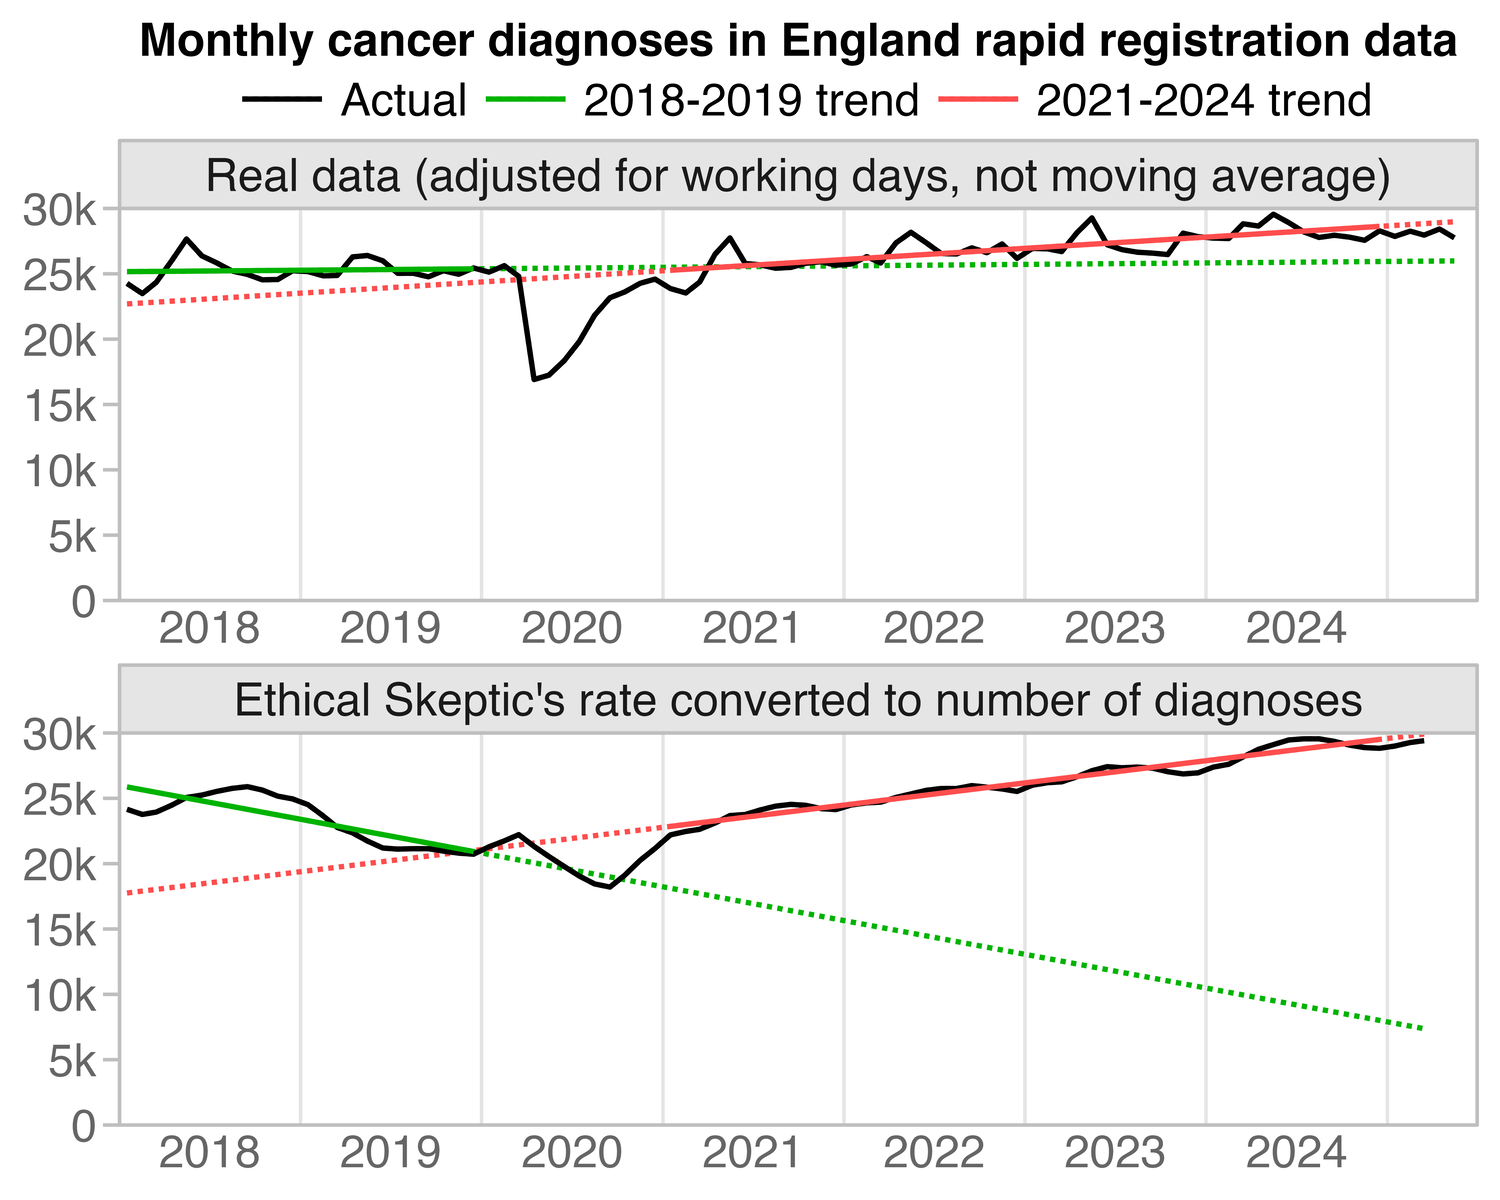
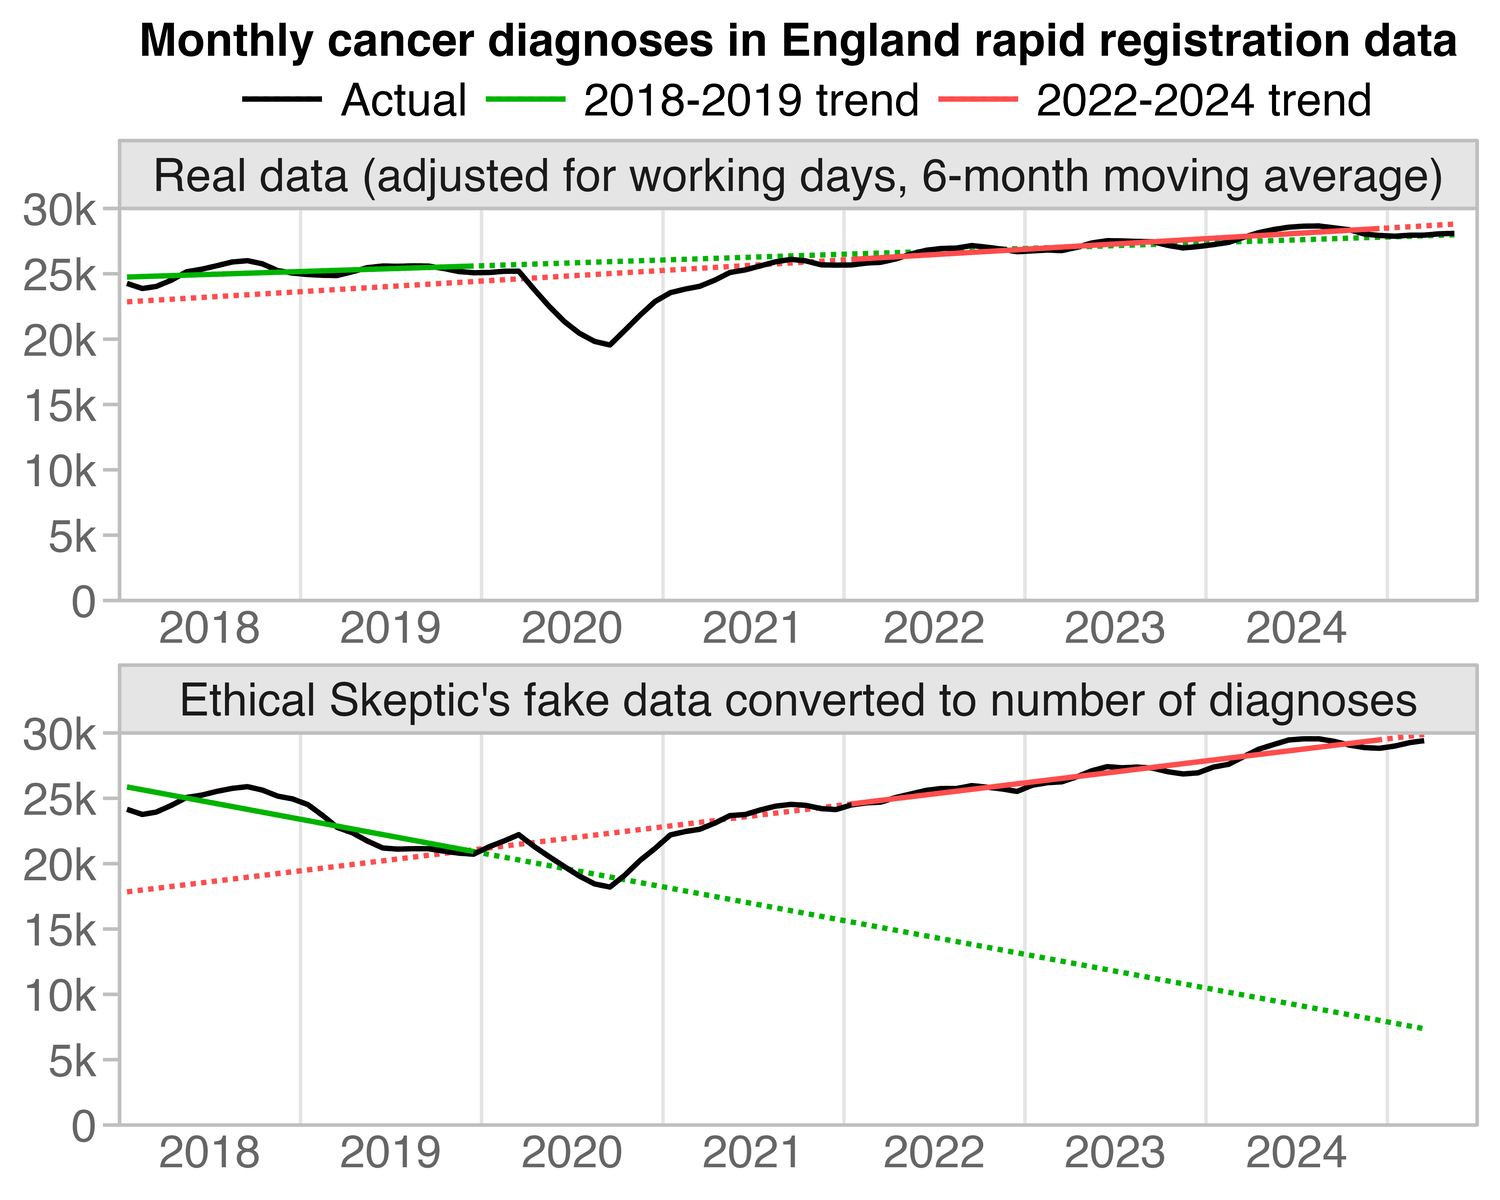
a

diff --git a/ethical4.html b/ethical4.html
@@ -76,7 +76,7 @@ blockquote h3{color:inherit}
 <img src=i/ethical-englandincidence-11.png width=700>
 </div>
 <p>I took yearly population estimates from the Statista page titled <span class="quote">"Population of England from 1971 to 2023"</span>, where I used 2023 estimates for 2024 and 2025: <a href=https://www.statista.com/statistics/975956/population-of-england/.><a href="https://www.statista.com/statistics/975956/population-of-england/" class="uri">https://www.statista.com/statistics/975956/population-of-england/</a>.</a> However I'm not sure if ES calculated the population size for 2024 by doing something like a linear projection of data for 2022 and 2023. I multiplied the population estimates by the proportion of people aged 65 and above in England from here, where I used the 2024 percentage for 2025: <a href=https://www.ons.gov.uk/explore-local-statistics/indicators/percentage-of-the-population-aged-65-plus>https://www.ons.gov.uk/explore-local-statistics/indicators/percentage-of-the-population-aged-65-plus</a> (<span class="quote">"Line chart &gt; Change areas &gt; Other areas &gt; All countries &gt; England &gt; Download line chart data (CSV)"</span>).</p>
-<p>I tried to replicate Ethical Skeptic's methodology, so I used his convoluted method of calculating the number of people aged 65 and above. But the results it gave me were close to identical to the yearly population estimate of ages 65 and above returned by Nomis, apart from the years 2023 and 2024: [<a href=https://www.nomisweb.co.uk/datasets/pestsyoala>https://www.nomisweb.co.uk/datasets/pestsyoala</a>]</p>
+<p>I tried to replicate Ethical Skeptic's methodology, so I used his convoluted method of calculating the number of people aged 65 and above. But the results it gave me were close to identical to the yearly population estimate of ages 65+ returned by Nomis, apart from the years 2023 and 2024: [<a href=https://www.nomisweb.co.uk/datasets/pestsyoala>https://www.nomisweb.co.uk/datasets/pestsyoala</a>]</p>
 <div>
 <img src=i/ethical-englandincidence-5.png width=600>
 </div>
@@ -344,25 +344,27 @@ ggsave(&quot;1.png&quot;,width=5.2,height=3,dpi=300*4)</pre>
 <button>
 Show code
 </button>
-<pre>rapid=CJ(year=2018:2025,month=1:12)[!(year==2025&amp;month&gt;5)]
+<pre>ma=\(x,b=1,f=b){x[]=rowMeans(embed(c(rep(NA,b),x,rep(NA,f)),f+b+1),na.rm=T);x}
+
+rapid=CJ(year=2018:2025,month=1:12)[!(year==2025&amp;month&gt;5)]
 rapid$cases=c(24265,23485,24346,25994,27661,26373,25833,25212,24953,24540,24564,25231,25169,24844,24873,26294,26401,25994,25037,25043,24770,25236,24966,25444,25128,25621,24809,16910,17246,18362,19806,21826,23169,23614,24274,24592,23870,23534,24370,26499,27741,25785,25686,25425,25493,25801,25927,25658,25752,26316,25826,27370,28176,27371,26549,26517,26984,26615,27285,26179,26944,26909,26700,28151,29276,27220,26845,26652,26579,26473,28109,27843,27733,27699,28826,28654,29560,28914,28213,27783,27948,27807,27565,28289,27863,28261,27960,28428,27754)
-p1=rapid[,.(x=as.Date(paste(year,month,16,sep=&quot;-&quot;)),y=cases)]
-p1$z=&quot;Real data (adjusted for working days, not moving average)&quot;
+p1=rapid[,.(x=as.Date(paste(year,month,16,sep=&quot;-&quot;)),y=ma(cases,5,0))]
+p1$z=&quot;Real data (adjusted for working days, 6-month moving average)&quot;
 
 es=CJ(year=2018:2025,month=1:12)[1:87]
 es$rate=c(239.6,235.7,237.5,242.7,248.6,250.4,253.2,255.5,256.8,254.2,249.6,247.5,239.3,230.8,222.3,218.2,212.1,206.9,206.1,206.4,206.4,204.6,203.1,202.3,206.1,210.5,215.1,206.4,198.9,191.5,184.5,178.6,176.3,185.1,196.1,204.9,212.1,214.6,216.2,220.8,226.2,227.0,230.3,233.1,234.4,233.7,231.3,230.6,230.6,232.1,232.6,236.0,238.5,241.1,242.4,242.4,244.5,243.4,242.1,240.3,242.1,243.9,244.5,248.1,252.4,255.3,254.5,255.0,254.2,251.7,250.1,250.9,253.5,255.5,260.7,266.1,269.4,272.7,273.5,273.5,271.7,269.1,267.3,266.8,268.4,270.9,272.2)
 espop=c(55924500,56230100,56326000,56554900,57112500,57690300,57690300,57690300) # from Statista
 espop=espop*c(.1803,.1822,.1834,.1851,.186,.1862,.1873,.1873) # proportion aged 65 and above from ONS website
 p2=es[,.(x=as.Date(paste(year,month,16,sep=&quot;-&quot;)),y=rate*espop[factor(year)]/1e5)]
-p2$z=&quot;Ethical Skeptic&#39;s rate converted to number of diagnoses&quot;
+p2$z=&quot;Ethical Skeptic&#39;s fake data converted to number of diagnoses&quot;
 
 p=rbind(p1,p2)[,z:=factor(z,unique(z))]
 
-lm=rbind(cbind(p,type=2)[,fit:=year(x)%in%2018:2019],cbind(p,type=3)[,fit:=year(x)%in%2021:2024])
+lm=rbind(cbind(p,type=2)[,fit:=year(x)%in%2018:2019],cbind(p,type=3)[,fit:=year(x)%in%2022:2024])
 lm=lm[,.(x,y=predict(lm(y~x,.SD[fit==T]),.SD),fit),.(z,type)]
 p=rbind(p[,fit:=T][,type:=1],lm)
 
-p[,type:=factor(type,,c(&quot;Actual&quot;,&quot;2018-2019 trend&quot;,&quot;2021-2024 trend&quot;))]
+p[,type:=factor(type,,c(&quot;Actual&quot;,&quot;2018-2019 trend&quot;,&quot;2022-2024 trend&quot;))]
 
 xstart=as.Date(&quot;2018-1-1&quot;);xend=as.Date(&quot;2025-7-1&quot;);xbreak=seq(xstart+182,as.Date(&quot;2025-1-1&quot;),&quot;year&quot;)
 ybreak=pretty(c(0,p$y));ystart=0;yend=max(ybreak)
